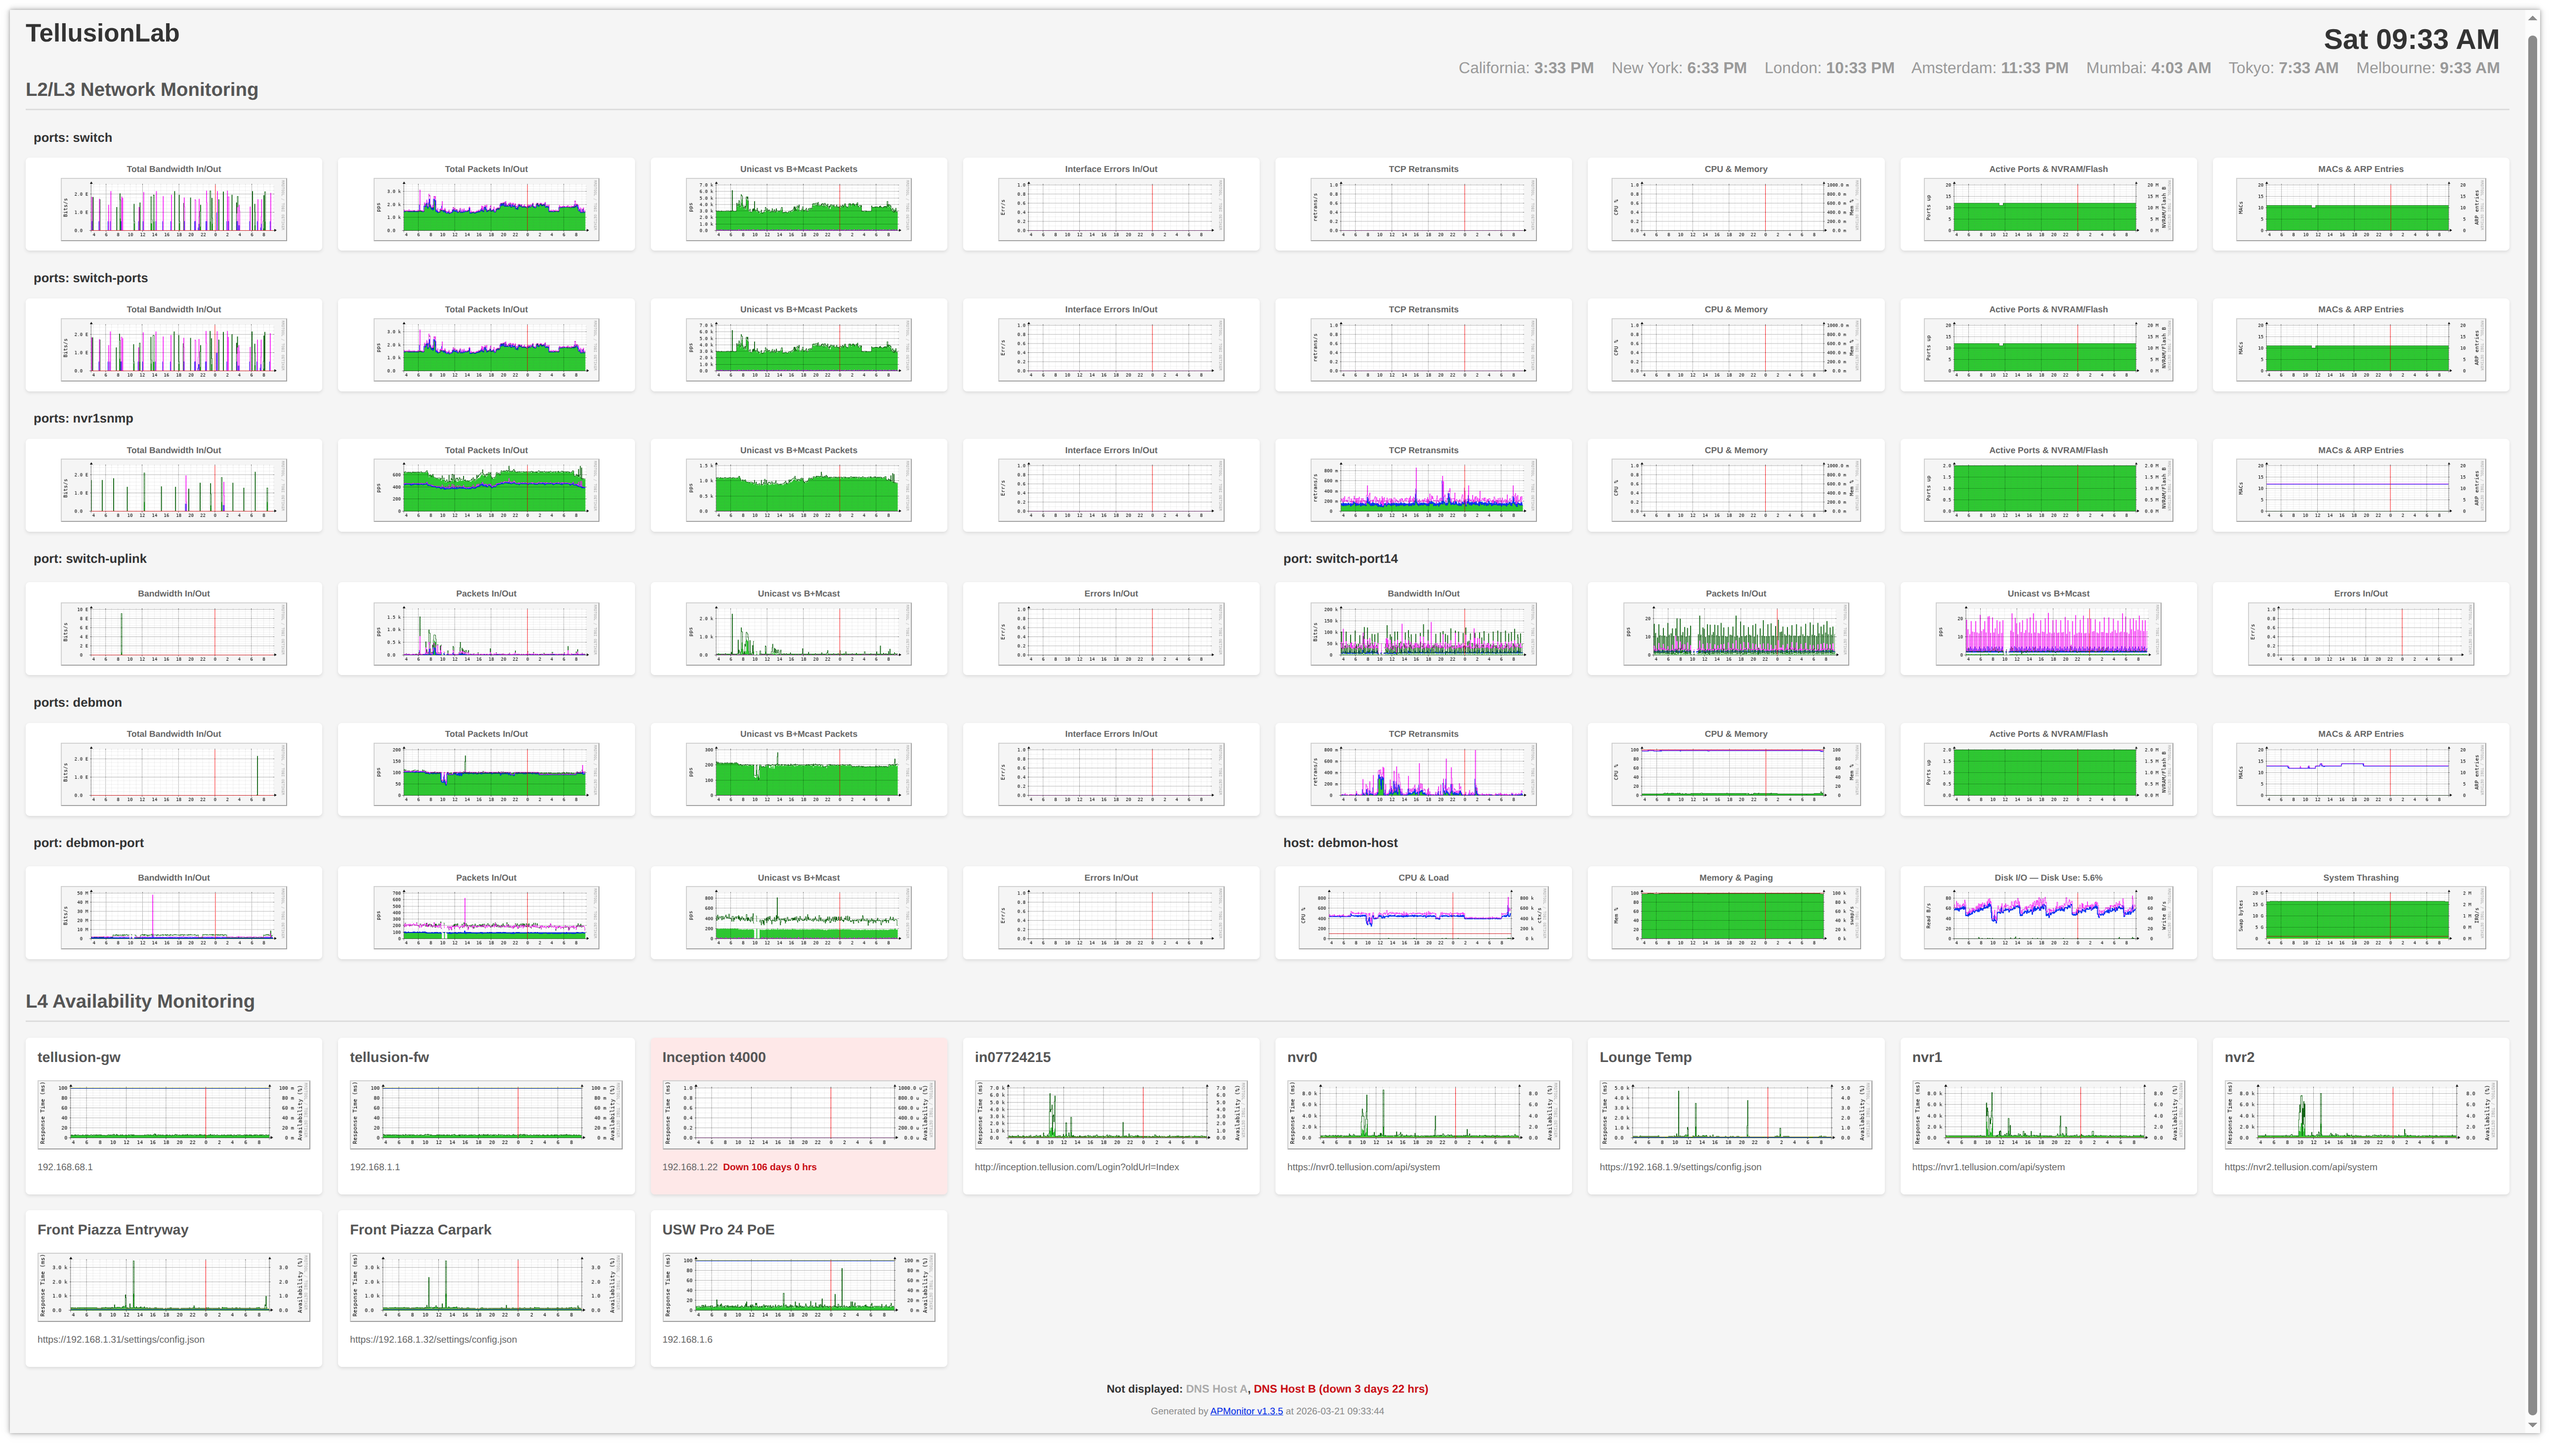
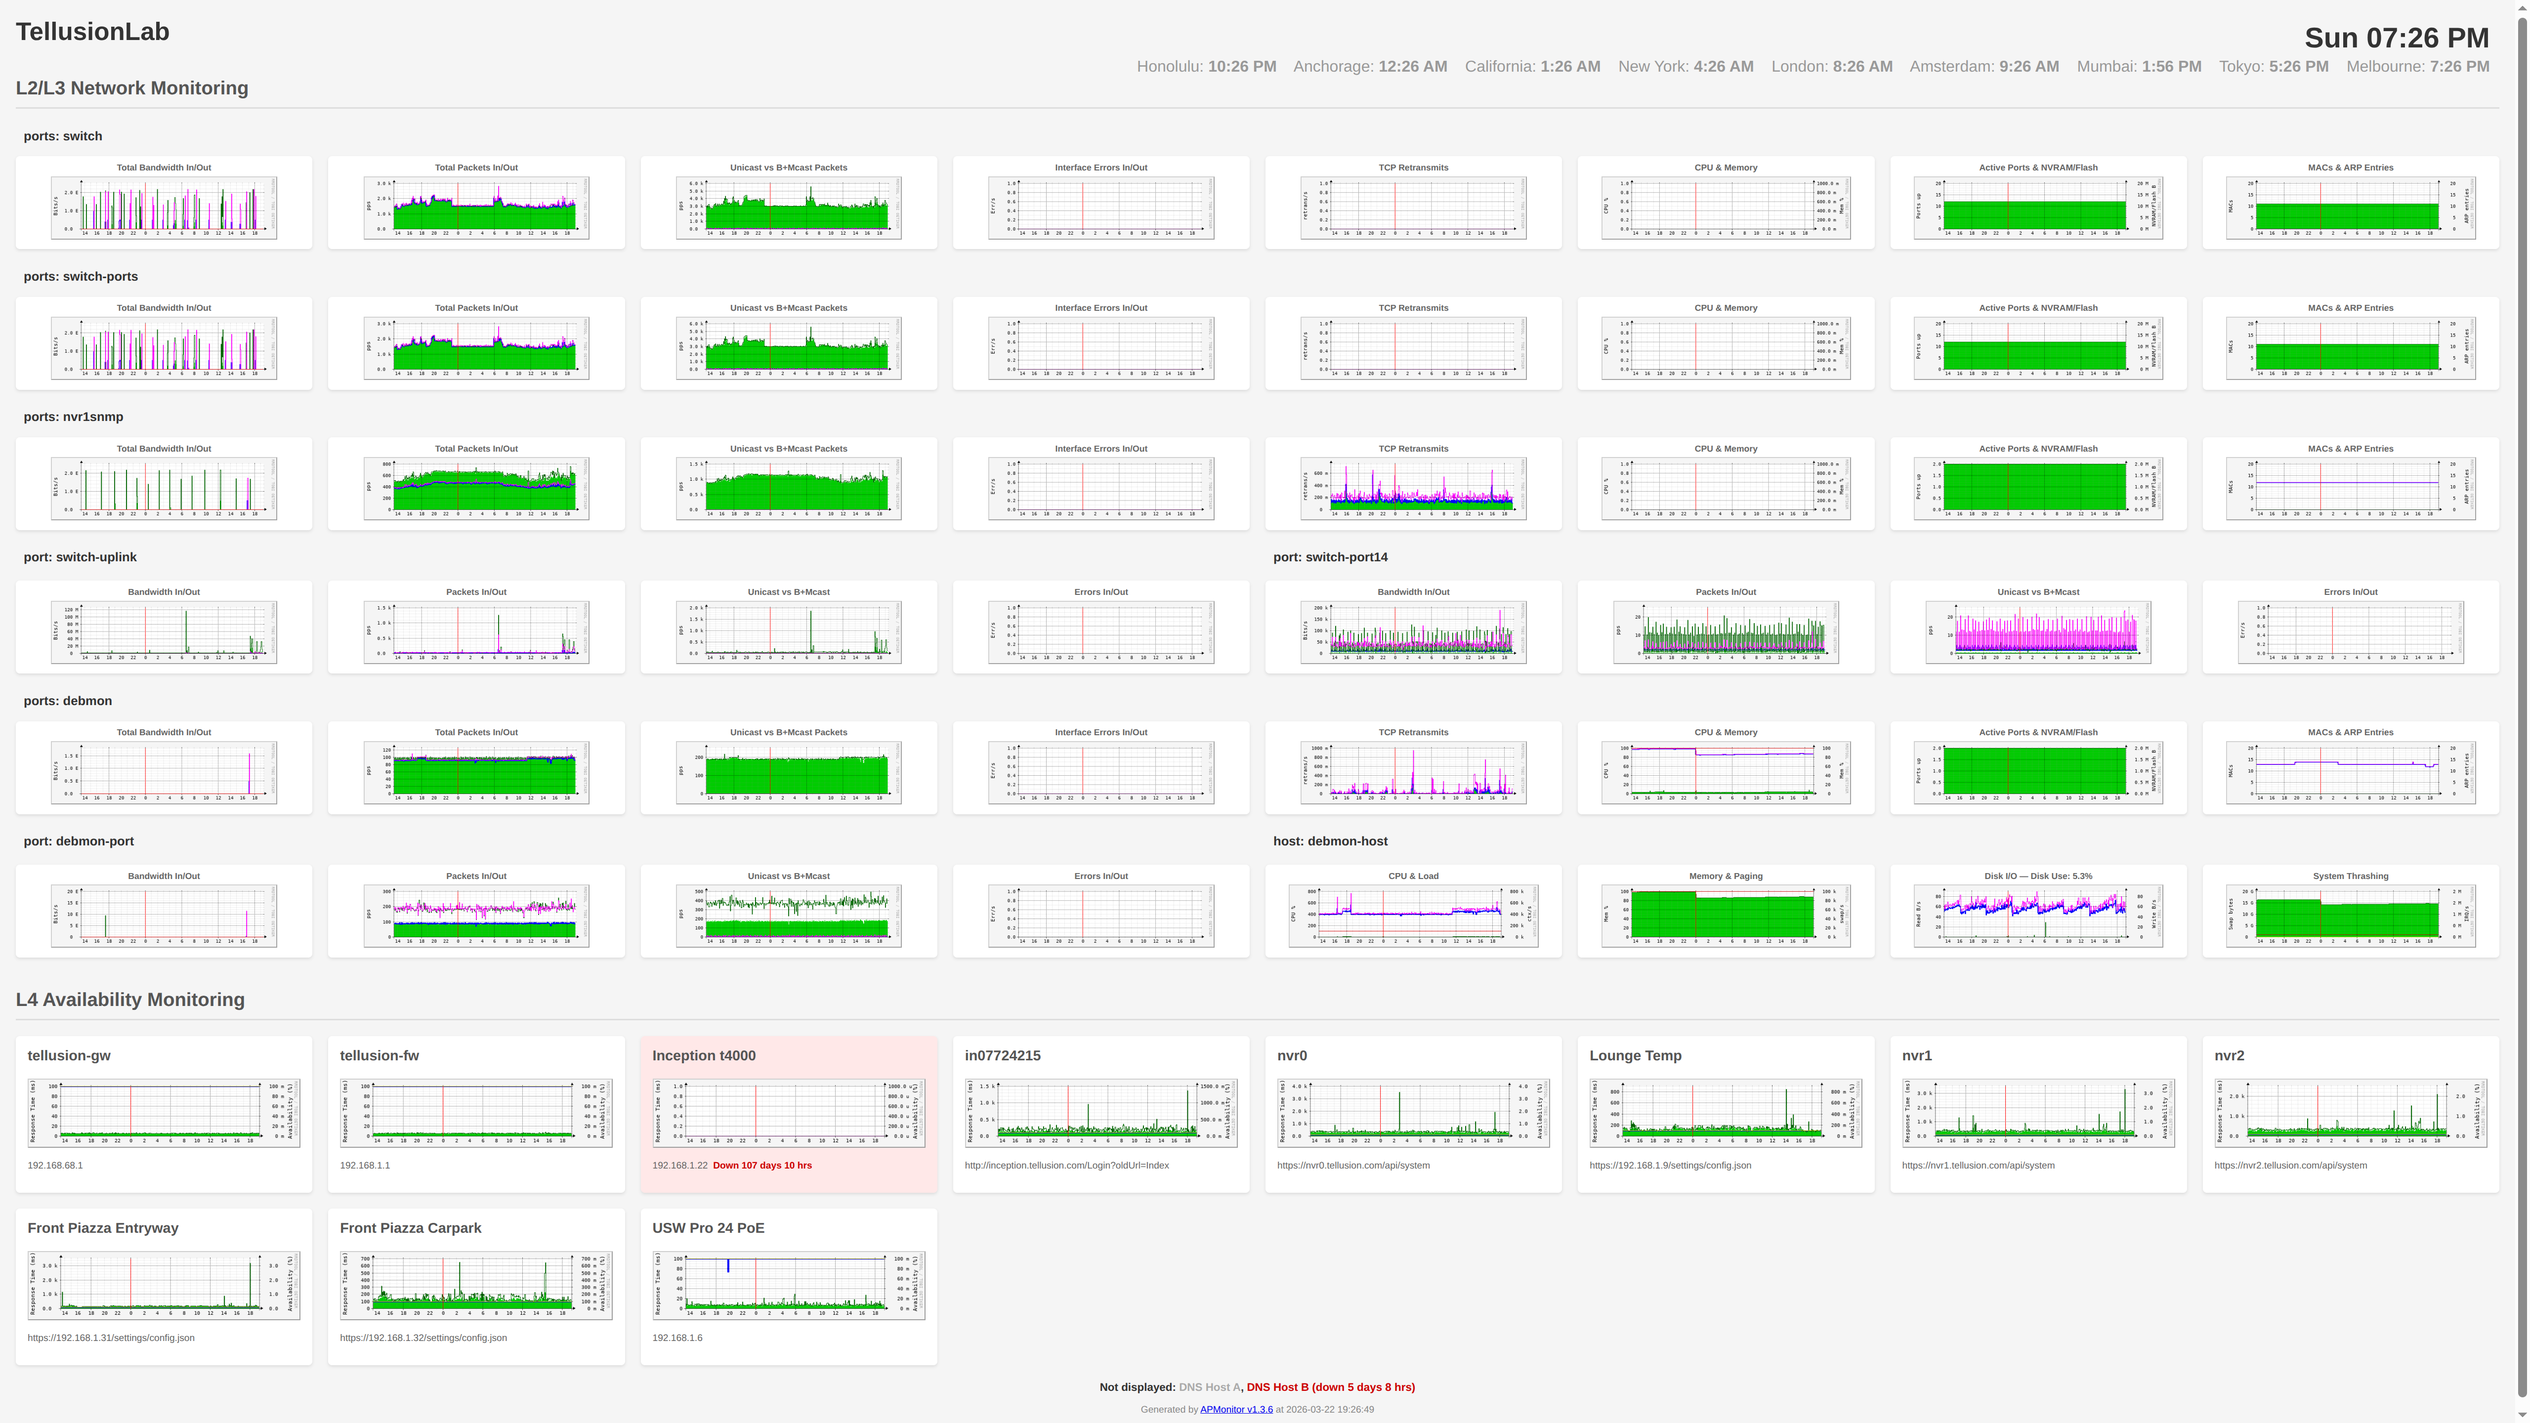
Updated eg screenshot of NOC display for new world clock

diff --git a/APMonitor.py b/APMonitor.py
@@ -4672,10 +4672,6 @@ def generate_mrtg_index(all_config_files: List[str], index_path: str, site_name:
             print(f"{prefix}Warning: Failed to parse config file '{config_file}': {e}", file=sys.stderr)
             continue
 
-    if not all_monitors and not snmp_monitors:
-        print(f"{prefix}Warning: No monitors found in any config files", file=sys.stderr)
-        return
-
     world_clocks = [
         ('Honolulu',    'Pacific/Honolulu'),    # UTC-10    (no DST)
         ('Anchorage',   'America/Anchorage'),   # UTC-9 / UTC-8 (DST)
@@ -4736,6 +4732,7 @@ def generate_mrtg_index(all_config_files: List[str], index_path: str, site_name:
         "        .header-clock { position: absolute; top: 0; right: 0; text-align: right; padding: 6px 12px; }",
         "        .header-clock-main { font-size: 36px; font-weight: bold; color: #333; }",
         "        .header-clock-world { font-size: 20px; color: #999; margin-top: 4px; }",
+        "        .nothing-configured { color: #aaa; font-style: italic; margin: 10px 0 30px 0; }",
         "        @media (max-width: 1400px) { ",
         "            .grid { grid-template-columns: repeat(4, 1fr); }",
         "            .network-row { grid-template-columns: repeat(var(--cols-narrow, 2), 1fr); }",
@@ -4757,11 +4754,7 @@ def generate_mrtg_index(all_config_files: List[str], index_path: str, site_name:
     ]
 
     def _detail_href(monitor_title: str, base_name: str) -> str:
-        """Derive detail page href from monitor title and base_name.
-
-        Title format is 'type: name' — extract type prefix for filename.
-        Detail pages live alongside index.html, so href is relative with no path prefix.
-        """
+        """Derive detail page href from monitor title and base_name."""
         type_prefix = monitor_title.split(':')[0].strip() if ':' in monitor_title else 'ports'
         return f"{type_prefix}-{base_name}-detail.html"
 
@@ -4848,16 +4841,7 @@ def generate_mrtg_index(all_config_files: List[str], index_path: str, site_name:
         ])
 
     def _emit_port_host_group(run: List[Tuple[str, Dict[str, Any]]]) -> None:
-        """Emit a contiguous run of port/host monitors as a single grid (8-up or 4-up).
-
-        Both port and host monitors have a 4-cell footprint:
-          - port: bandwidth / packets / packets-type / errors
-          - host: system1 / system2 / system3 / system4 (host performance charts)
-
-        Layout: label row + chart row share the same column grid so labels sit
-        directly above their respective 4-cell blocks on the grey background.
-        Labels link to per-monitor detail pages alongside index.html.
-        """
+        """Emit a contiguous run of port/host monitors as a single grid (8-up or 4-up)."""
         col_count  = 8 if len(run) >= 2 else 4
         col_narrow = min(col_count, 4)
         col_style  = f"repeat({col_count}, 1fr); --cols-narrow: {col_narrow}"
@@ -4921,58 +4905,69 @@ def generate_mrtg_index(all_config_files: List[str], index_path: str, site_name:
                 ])
         html_lines.append("    </div>")
 
-    # Add Network Monitoring section — iterate snmp_monitors in insertion order,
-    # flushing contiguous runs of port/host monitors as grouped grids.
-    if snmp_monitors:
+    has_snmp    = bool(snmp_monitors)
+    has_avail   = bool(all_monitors)
+    show_both   = not has_snmp and not has_avail  # nothing at all — show both headings with placeholder
+
+    port_count_total = 0
+    host_count_total = 0
+
+    # --- L2/L3 Network Monitoring section ---
+    if has_snmp or show_both:
         html_lines.append("    <h2>L2/L3 Network Monitoring</h2>")
 
-        port_host_run:   List[Tuple[str, Dict[str, Any]]] = []
-        port_count_total = 0
-        host_count_total = 0
+        if not has_snmp:
+            html_lines.append("    <p class='nothing-configured'>No L2/L3 network monitors configured.</p>")
+        else:
+            port_host_run: List[Tuple[str, Dict[str, Any]]] = []
 
-        for base_name, monitor in snmp_monitors.items():
-            is_port = monitor['title'].startswith('port: ')
-            is_host = monitor['title'].startswith('host: ')
-            if is_port or is_host:
-                port_host_run.append((base_name, monitor))
-                if is_port:
-                    port_count_total += 1
+            for base_name, monitor in snmp_monitors.items():
+                is_port = monitor['title'].startswith('port: ')
+                is_host = monitor['title'].startswith('host: ')
+                if is_port or is_host:
+                    port_host_run.append((base_name, monitor))
+                    if is_port:
+                        port_count_total += 1
+                    else:
+                        host_count_total += 1
                 else:
-                    host_count_total += 1
-            else:
-                if port_host_run:
-                    _emit_port_host_group(port_host_run)
-                    port_host_run = []
-                _emit_snmp_row(base_name, monitor)
+                    if port_host_run:
+                        _emit_port_host_group(port_host_run)
+                        port_host_run = []
+                    _emit_snmp_row(base_name, monitor)
 
-        if port_host_run:
-            _emit_port_host_group(port_host_run)
+            if port_host_run:
+                _emit_port_host_group(port_host_run)
 
-    # Add Availability Monitoring section (non-SNMP monitors)
-    if all_monitors:
+    # --- L4 Availability Monitoring section ---
+    if has_avail or show_both:
         html_lines.extend([
             "    <h2>L4 Availability Monitoring</h2>",
-            "    <div class='grid'>",
         ])
 
-        for monitor in all_monitors:
-            safe_name     = monitor['name']
-            monitor_state = state.get(monitor['title'], {}) if state else {}
-            is_down       = not monitor_state.get('is_up', True)
-            div_class     = "monitor down" if is_down else "monitor"
-            outage_str    = f"<span style='color: #cc0000; font-weight: bold;'>Down {format_time_ago(monitor_state.get('last_alarm_started'))}</span>" if is_down else ""
+        if not has_avail:
+            html_lines.append("    <p class='nothing-configured'>No L4 availability monitors configured.</p>")
+        else:
+            html_lines.append("    <div class='grid'>")
 
-            html_lines.extend([
-                f"        <div class='{div_class}'>",
-                f"            <h3><a href='/mrtg-rrd/{safe_name}.html'>{monitor['title']}</a></h3>",
-                f"            <a href='/mrtg-rrd/{safe_name}.html'>",
-                f"                <img src='/mrtg-rrd/{safe_name}-day.png' alt='{monitor['title']} Daily Graph'>",
-                "            </a>",
-                f"            <p style='font-size: 12px; color: #666;'>{monitor['address']}{(' &nbsp;' + outage_str) if is_down else ''}</p>",
-                "        </div>",
-            ])
+            for monitor in all_monitors:
+                safe_name     = monitor['name']
+                monitor_state = state.get(monitor['title'], {}) if state else {}
+                is_down       = not monitor_state.get('is_up', True)
+                div_class     = "monitor down" if is_down else "monitor"
+                outage_str    = f"<span style='color: #cc0000; font-weight: bold;'>Down {format_time_ago(monitor_state.get('last_alarm_started'))}</span>" if is_down else ""
 
-        html_lines.append("    </div>")
+                html_lines.extend([
+                    f"        <div class='{div_class}'>",
+                    f"            <h3><a href='/mrtg-rrd/{safe_name}.html'>{monitor['title']}</a></h3>",
+                    f"            <a href='/mrtg-rrd/{safe_name}.html'>",
+                    f"                <img src='/mrtg-rrd/{safe_name}-day.png' alt='{monitor['title']} Daily Graph'>",
+                    "            </a>",
+                    f"            <p style='font-size: 12px; color: #666;'>{monitor['address']}{(' &nbsp;' + outage_str) if is_down else ''}</p>",
+                    "        </div>",
+                ])
+
+            html_lines.append("    </div>")
 
     # Build hidden monitors audit footer — omitted entirely if no monitors are hidden
     if hidden_monitors:

diff --git a/README.md b/README.md
@@ -54,8 +54,16 @@ To run APMonitor with a configuration file `test-apmonitor-config.yaml ` & auto-
  ./APMonitor.py -vv -s /tmp/statefile.json test-apmonitor-config.yaml --generate-rrds 
 ```
 
+To properly setup `APMonitor.py`
+
+1. Spin up Debian Linux on a VM or PC on a Card/PC on a Chip (e.g., rPI) - optional but recommended
+2. Modify `example-apmonitor-config.yaml` with a basic config then copy it to `/usr/local/etc/apmonitor-config.yaml`
+3. use `make install; make installmrtg` to spin up `APMonitor.py` and a NGINX webserver for MRTG charts in `systemctl`
+
+That's it!
+
 > [!WARNING]
-> Do not upgrade to the 1.3.x stream. This is an experimental release stream that contains RRD & config YAML schema changes that require existing RRD files to be deleted and recreated before upgrading. APMonitor will auto-heal existing RRDs on first run when `--generate-rrds` or `--generate-mrtg-config` is specified.
+> If you are upgrading to the 1.3.x stream: This is an schema change release stream that contains RRD & config YAML schema changes that require existing RRD files to be deleted and recreated before upgrading. APMonitor will auto-heal existing RRDs on first run when `--generate-rrds` or `--generate-mrtg-config` is specified.
 > 
 > To do a full upgrade change your YAML to replace `type: snmp` with `type: ports` then execute something similar to this command:
 > 
@@ -461,7 +469,7 @@ DS names use the raw ifIndex integer (e.g., `if1_in`, `if2_out`), not the interf
 | Historical | 1-day | 732 (~2 years) | 22692 (~62 years) |
 
 > [!WARNING]
-> Do not upgrade to the 1.3.x stream. This release contains RRD schema changes that require existing RRD files to be deleted and recreated before upgrading. APMonitor will auto-heal existing RRDs on first run when `--generate-rrds` or `--generate-mrtg-config` is specified.
+> Be careful if upgrading to the 1.3.x stream. This release contains RRD schema changes that require existing RRD files to be deleted and recreated before upgrading. APMonitor will auto-heal existing RRDs on first run when `--generate-rrds` or `--generate-mrtg-config` is specified.
 
 To use custom retention, modify the row constants in `create_rrd_rras()`:
 ```python

diff --git a/CHANGES.md b/CHANGES.md
@@ -12,6 +12,9 @@ Thread safe, reentrant, modifiable.
 # Release 1.3.6 (???): ???
 - Added note about NVRs, SSL pinning, MAC port monitoring/pinning & reverse shells
 - Added Honolulu to world clocks to provide proper cover of whole planet
+- Made L2/L3 Network Monitoring & L4 Availability Monitoring output optional (can have just 1 heading)
+- Added back-button semantics to MRTG detail pages for when in fullscreen mode
+- Updated eg screenshot of NOC display for new world clock 
 
 # Release 1.3.5 (21-Mar-26): MRTG UX Tweaks
 - Adjusted dualaxis settings on L2/L3 Network Monitoring charts
